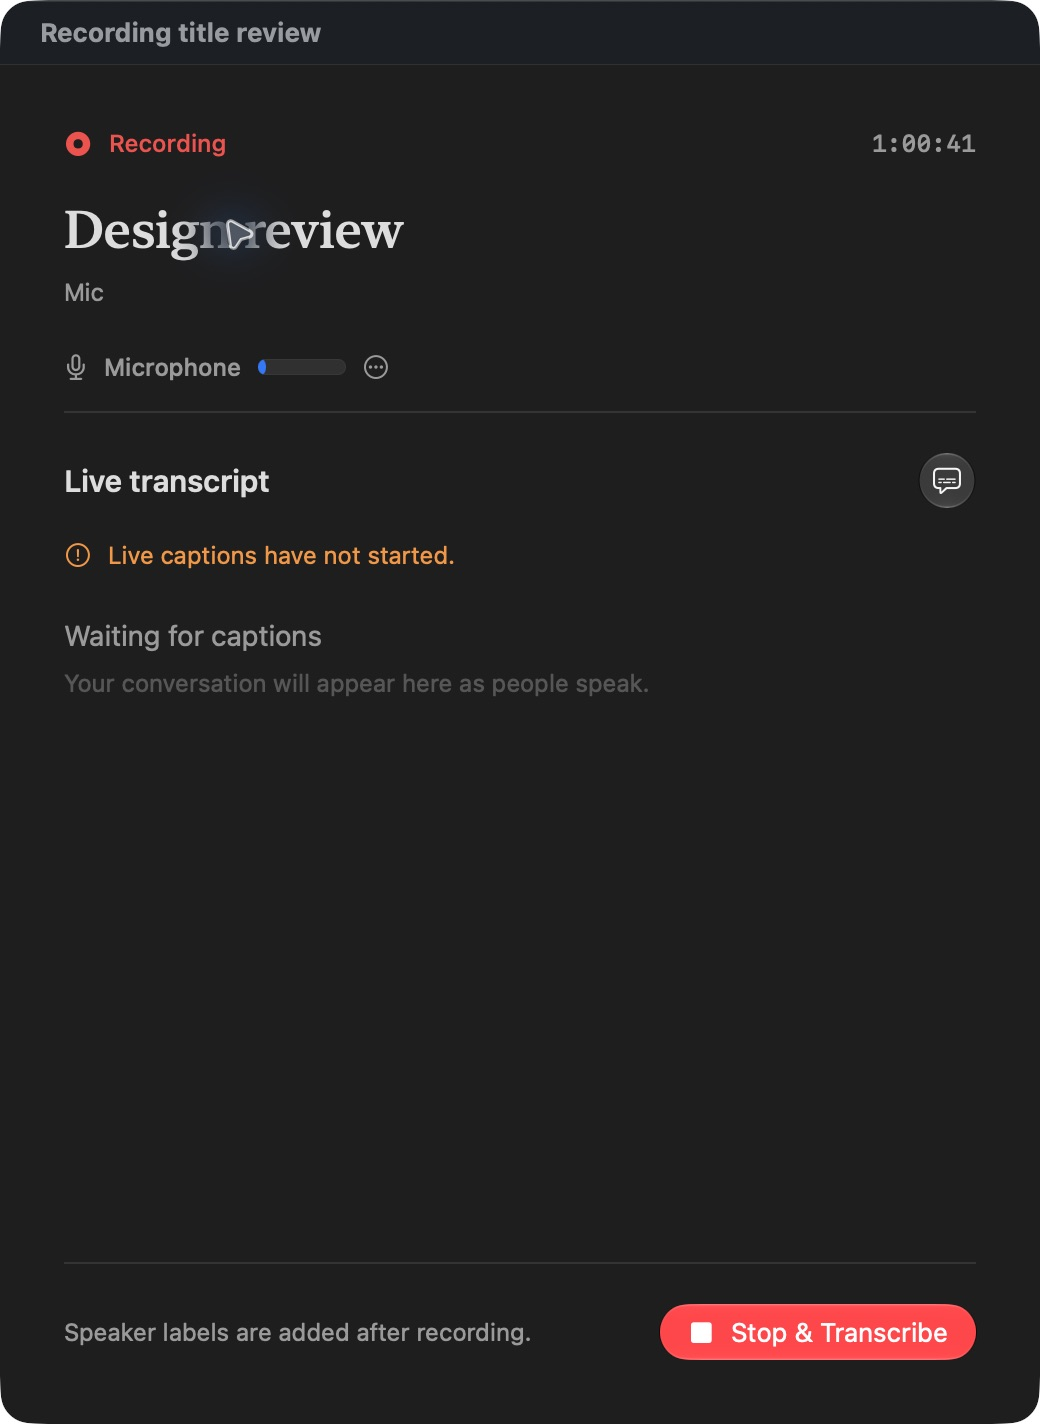
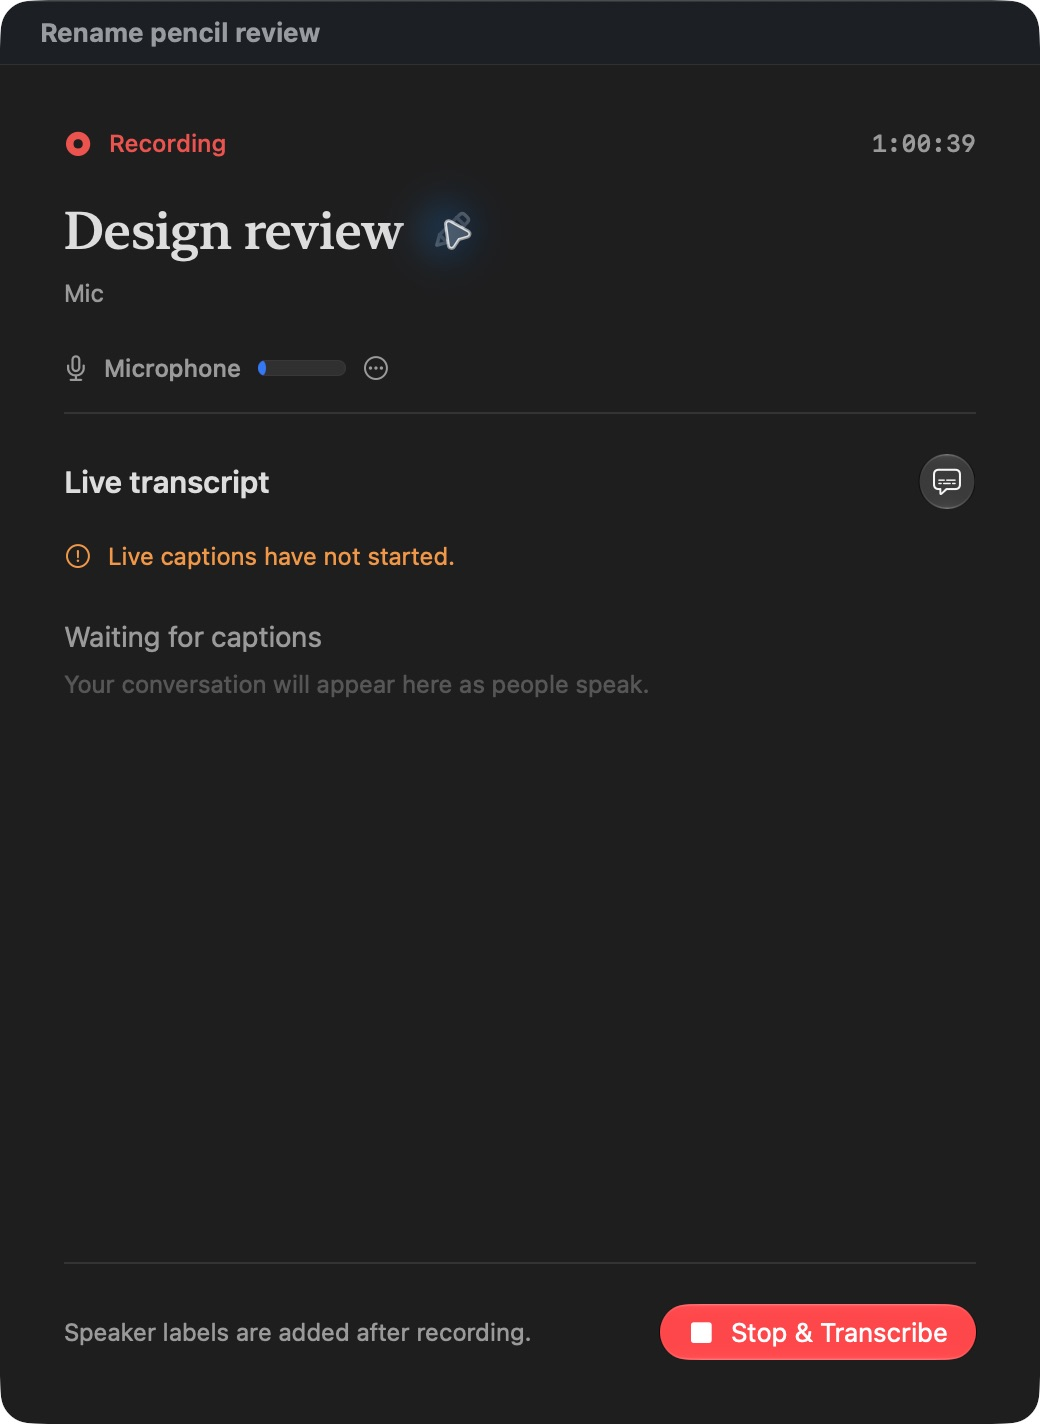
Show a custom pencil beside the recording title

diff --git a/Sources/Fluid/Theme/Components/EditableTitle.swift b/Sources/Fluid/Theme/Components/EditableTitle.swift
@@ -39,9 +39,27 @@ private struct EditableTitleModifier: ViewModifier {
                         self.focused = true
                     }
             } else {
-                if self.doubleClickEnabled || self.singleClickEnabled {
+                if self.singleClickEnabled {
+                    HStack(alignment: .center, spacing: 8) {
+                        content
+                            .highPriorityGesture(TapGesture().onEnded { self.begin() })
+                            .accessibilityAction(named: Text("Rename"), self.begin)
+                        if self.enabled && self.isEnabled {
+                            Button(action: self.begin) {
+                                FluidPencilShape()
+                                    .stroke(style: StrokeStyle(lineWidth: 1.7, lineCap: .round, lineJoin: .round))
+                                    .frame(width: 20, height: 20)
+                                    .frame(width: 24, height: 24)
+                            }
+                            .buttonStyle(FluidHoverIconButtonStyle())
+                            .help("Rename")
+                            .accessibilityLabel("Rename \(self.title)")
+                        }
+                    }
+                    .onGeometryChange(for: CGFloat.self) { $0.size.height } action: { self.restingHeight = $0 }
+                } else if self.doubleClickEnabled {
                     content
-                        .highPriorityGesture(TapGesture(count: self.singleClickEnabled ? 1 : 2).onEnded { self.begin() })
+                        .highPriorityGesture(TapGesture(count: 2).onEnded { self.begin() })
                         .onGeometryChange(for: CGFloat.self) { $0.size.height } action: { self.restingHeight = $0 }
                         .accessibilityAction(named: Text("Rename"), self.begin)
                 } else {
